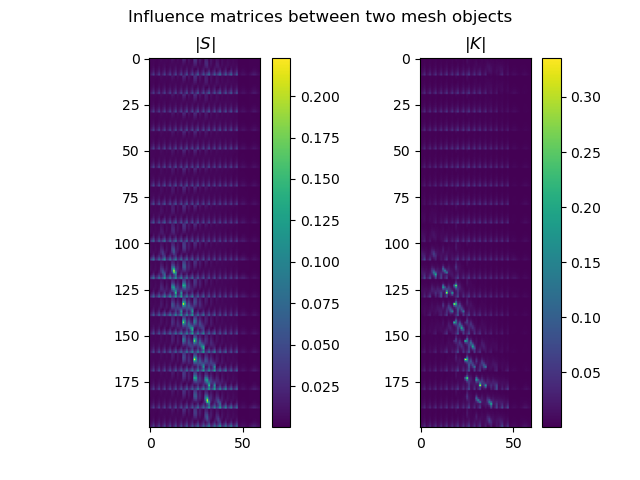
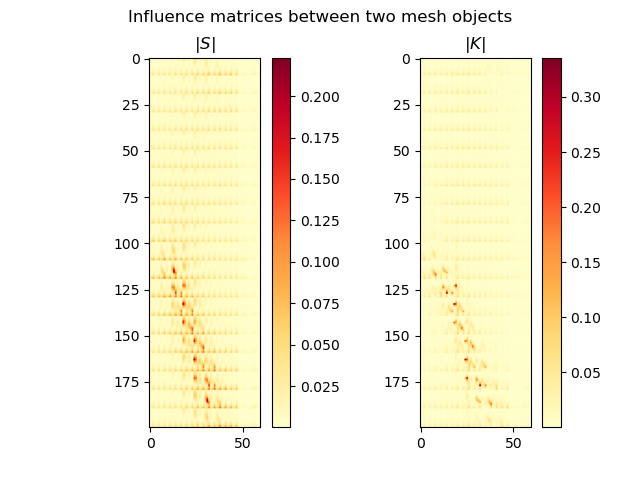
tiny change of color in plot

diff --git a/plot_wave.py b/plot_wave.py
@@ -61,11 +61,11 @@ fig2.suptitle('Shape of waves with different w values')
 # The third plot: plotting inluence matrices
 fig3, ax3 = plt.subplots(1, 2)
 
-im0 = ax3[0].imshow(abs(S))
+im0 = ax3[0].imshow(abs(S), cmap='YlOrRd')
 ax3[0].set(title="$|S|$")
 fig3.colorbar(im0, ax=ax3[0])
 
-im1 = ax3[1].imshow(abs(K))
+im1 = ax3[1].imshow(abs(K), cmap='YlOrRd')
 ax3[1].set(title="$|K|$")
 fig3.colorbar(im1, ax=ax3[1])
 
